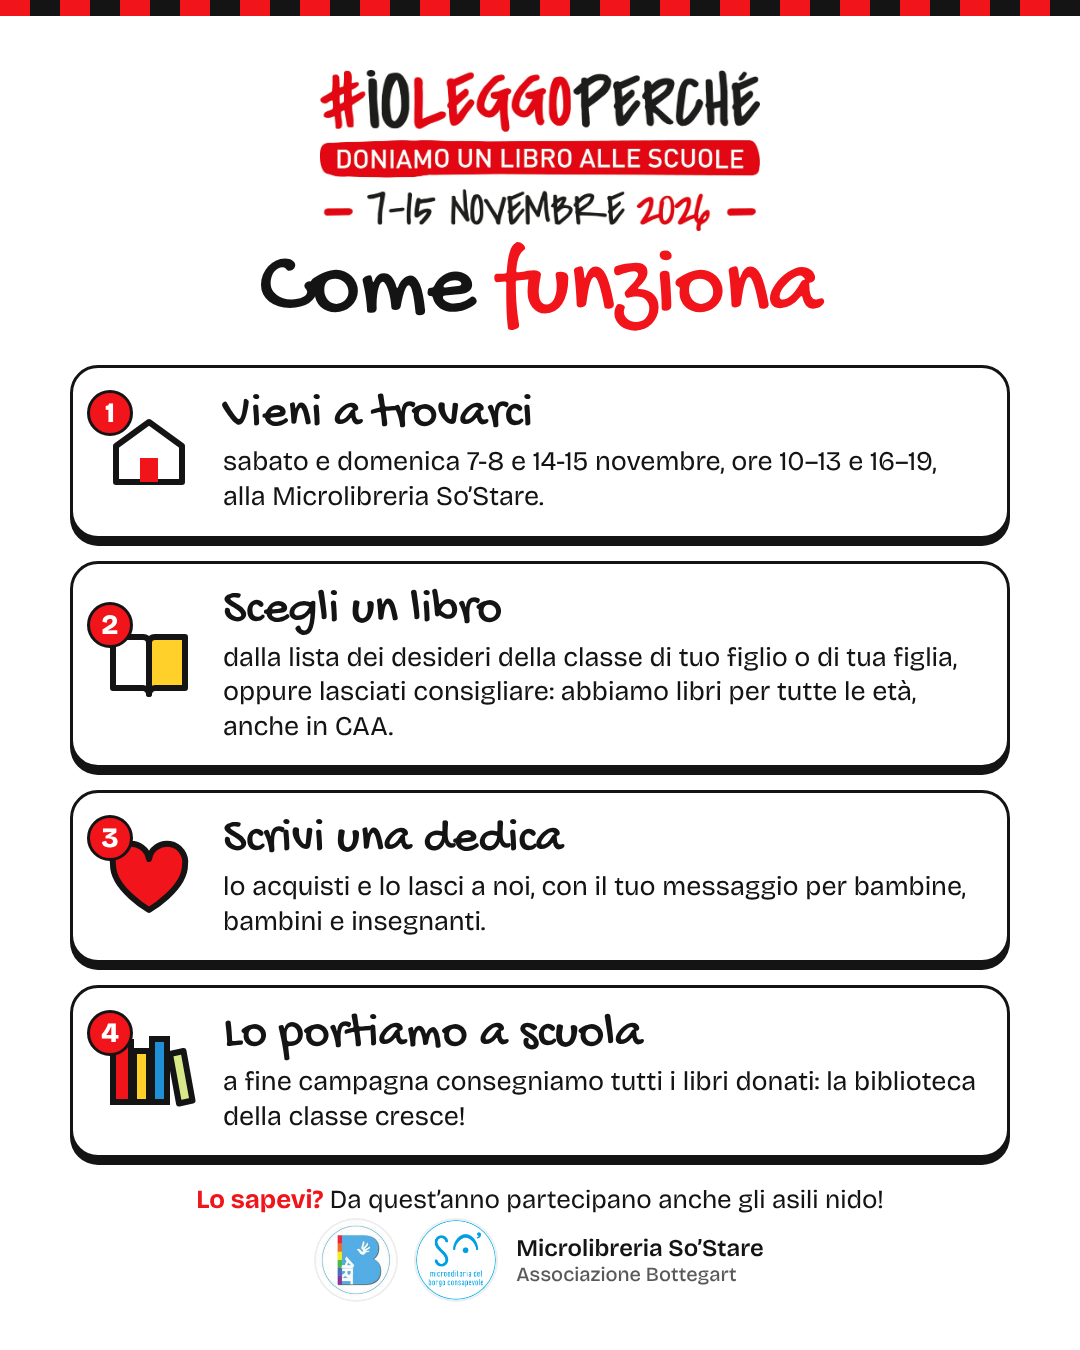
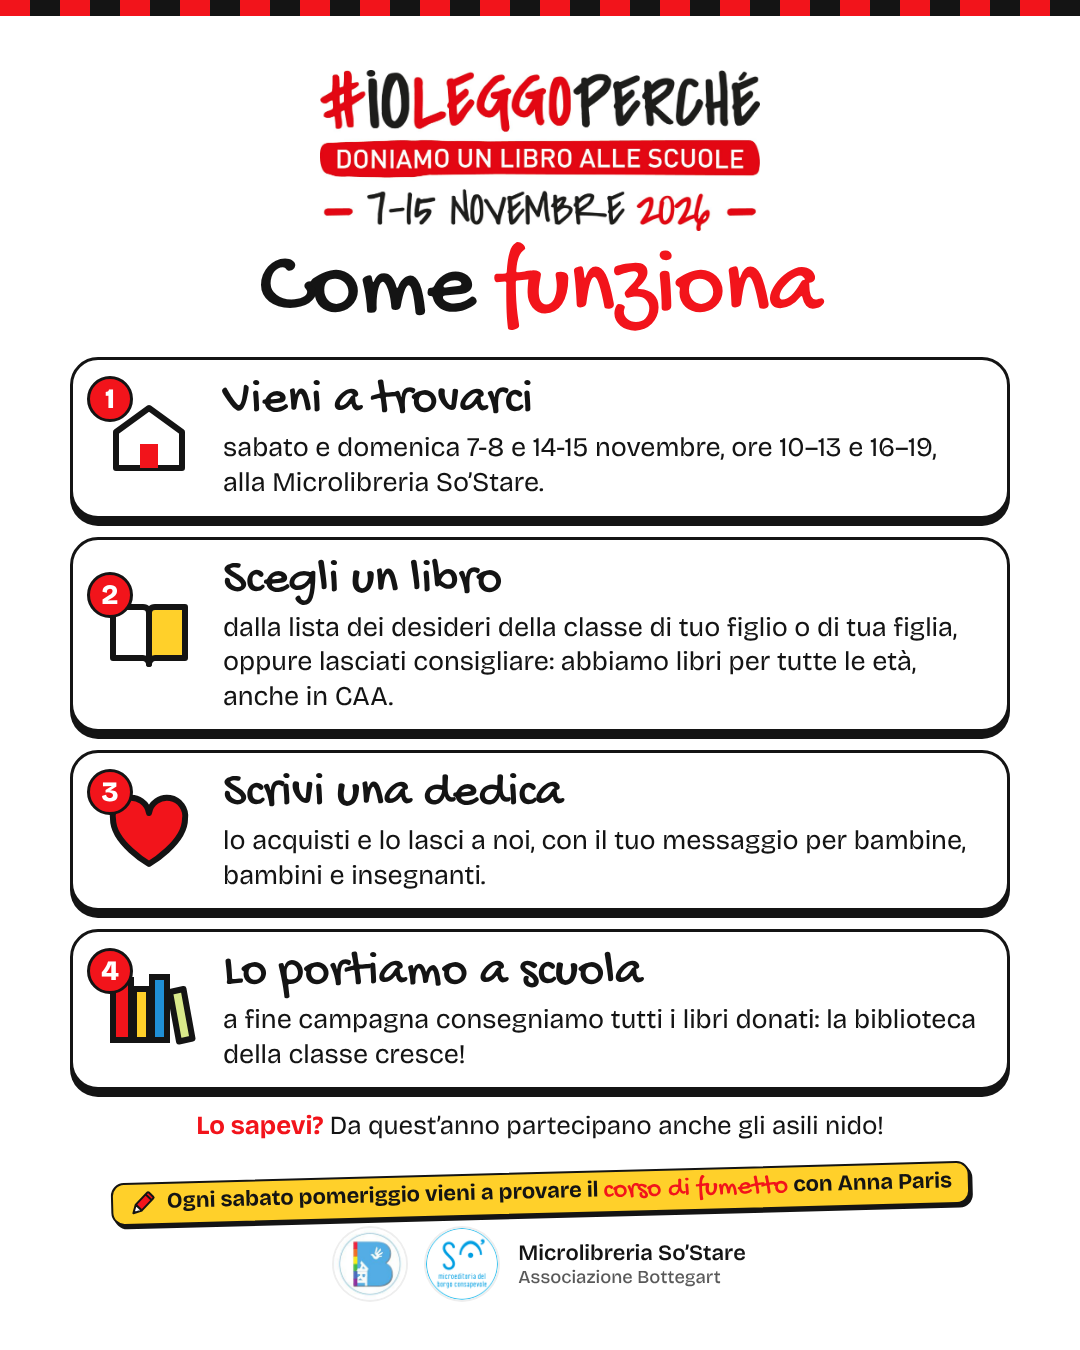
Campagna: corso di fumetto anche nell'infografica
Claude-Session: https://claude.ai/code/session_01PNE7cvk3g7HSeFfjLhpBnW

Changed region(s): [[0.0611, 0.2489, 0.9472, 0.9644]]

diff --git a/bottegart_progetto/campagna/crea_campagna.py b/bottegart_progetto/campagna/crea_campagna.py
@@ -122,20 +122,21 @@ INFO_G = pagina(1080, 1350, """
 .f{padding:60px 70px 50px;--lg:20px;--bh:16px;--bw:60px;text-align:left}
 .banda{top:0}.logo{width:440px;align-self:center;margin-top:10px}
 h1{font-size:96px;text-align:center;margin-top:16px}
-.passi{list-style:none;display:flex;flex-direction:column;gap:22px;margin-top:30px;width:100%}
-.passi li{display:grid;grid-template-columns:96px 1fr;gap:26px;align-items:center;background:#fff;border:3px solid var(--nero);border-radius:28px;padding:22px 28px;box-shadow:0 7px 0 var(--nero)}
+.passi{list-style:none;display:flex;flex-direction:column;gap:18px;margin-top:22px;width:100%}
+.passi li{display:grid;grid-template-columns:96px 1fr;gap:26px;align-items:center;background:#fff;border:3px solid var(--nero);border-radius:28px;padding:16px 28px;box-shadow:0 7px 0 var(--nero)}
 .ico{position:relative;width:96px;height:96px}.ico svg{width:96px;height:96px}
 .ico i{position:absolute;top:-14px;left:-14px;width:46px;height:46px;border-radius:50%;background:var(--rosso);color:#fff;font-style:normal;font-weight:800;font-size:28px;display:flex;align-items:center;justify-content:center;border:3px solid var(--nero)}
 .passi b{font-family:'Gochi Hand',cursive;font-weight:400;font-size:50px;line-height:1;display:block}
 .passi p{font-size:27px;line-height:1.28;margin-top:4px}
-.nota{margin-top:26px;font-size:26px;text-align:center;align-self:center;max-width:880px}
+.nota{margin-top:20px;font-size:26px;text-align:center;align-self:center;max-width:880px}
 .nota strong{color:var(--rosso)}
-.loghi{margin-top:auto;align-self:center}.loghi img{width:80px;height:80px}.loghi p{font-size:24px}
+.loghi{margin-top:auto;align-self:center}.loghi img{width:72px;height:72px}.loghi p{font-size:22px}
+.fum{font-size:22px;align-self:center}.sp{height:20px}
 """, f"""<div class="banda"></div><img class="logo" src="{IMG['logo']}" alt="#ioleggoperché 2026">
 <h1>Come <em>funziona</em></h1>
 <ol class="passi">""" + "".join(f'<li><div class="ico">{ICONE[k]}<i>{k+1}</i></div><div><b>{t}</b><p>{p}</p></div></li>' for k, (t, p) in enumerate(PASSI)) + f"""</ol>
 <p class="nota"><strong>Lo sapevi?</strong> Da quest’anno partecipano anche gli asili nido!</p>
-{loghi()}""")
+{fumetto()}{loghi()}""")
 
 # 4. banner 1200x630 (evento Facebook, anteprima link WhatsApp)
 BANNER = pagina(1200, 630, """
